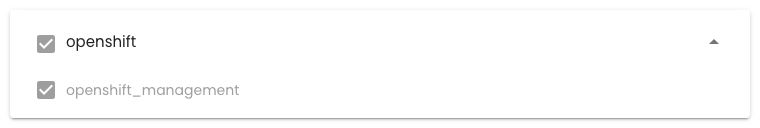
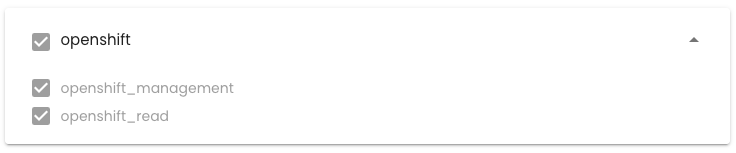
Mise à jour de la documentation Openshift et ajout de screenshots

diff --git a/docs/paas_openshift/quickstart.md b/docs/paas_openshift/quickstart.md
@@ -10,7 +10,7 @@ import oshiftMenu_003 from './images/oshift_menu_003.png'
 
 ### Affectation des droits d'accès
 
-Il est indispensable que l'administrateur du [Tenant](../console/iam/concepts.md#tenant) accorde le droit de gestion de la plateforme Openshift à l'utilisateur administrateur Openshift pour pouvoir y accéder :
+Il est indispensable que l'administrateur du [Tenant](../console/iam/concepts.md#tenant) accorde les droits de lecture et de gestion de la plateforme Openshift à l'utilisateur administrateur Openshift pour pouvoir y accéder :
 
 <img src={oshiftRights} />
 
